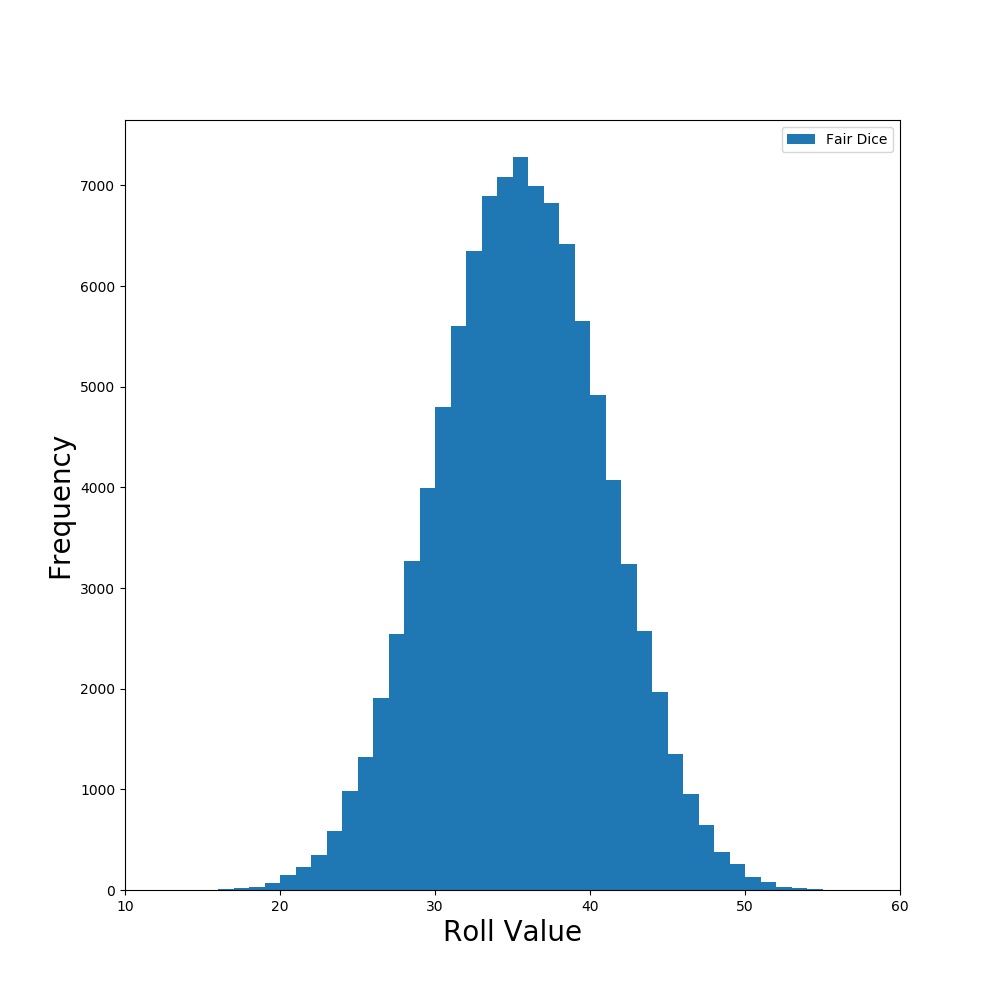
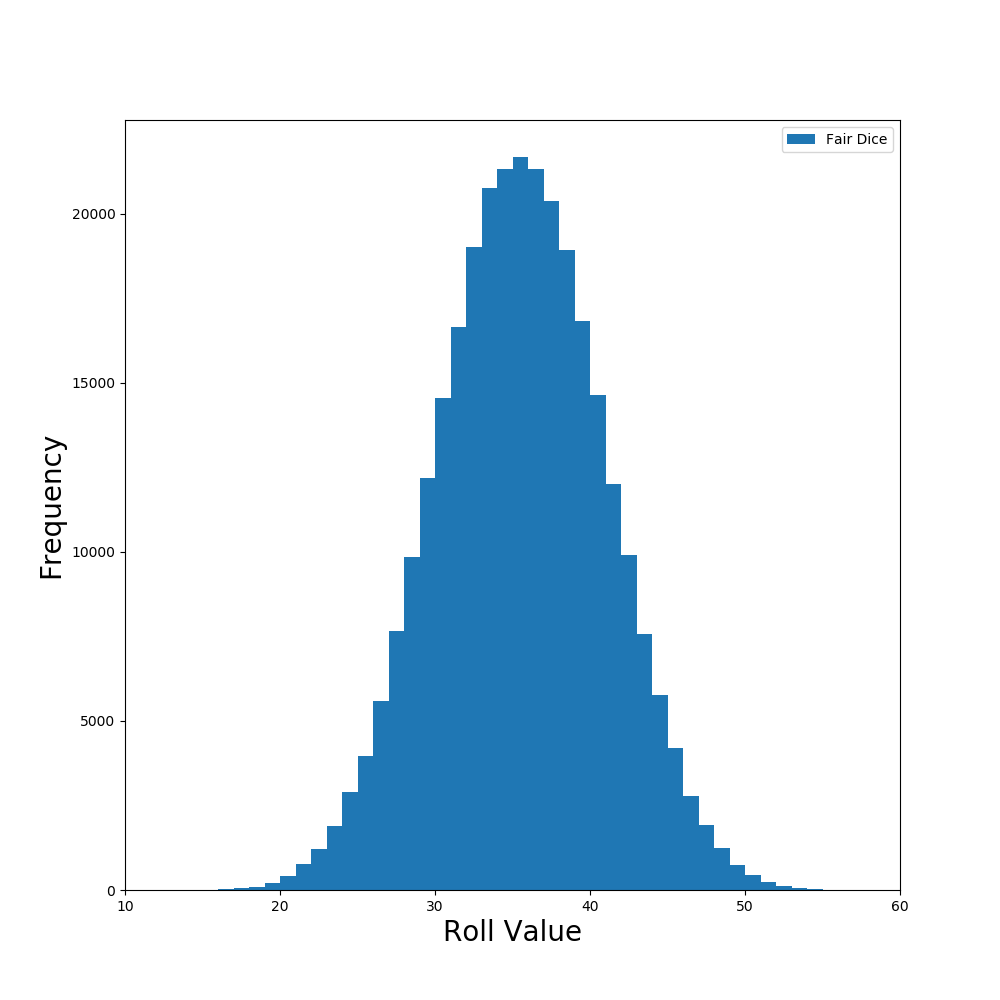
weights plots

diff --git a/dice_example/roll_multi_dice_mixture.py b/dice_example/roll_multi_dice_mixture.py
@@ -41,27 +41,35 @@ if __name__ == "__main__":
     N_samples = 100000
     k_sims = 2
     n_dice = 10
+
     fair_samples = [roll_dice(n_dice) for _ in range(N_samples)]
-    unfair_samples = [roll_loaded_dice(n_dice, 6, 10) for _ in range(N_samples)]
+    unfair_samples_high = [roll_loaded_dice(n_dice, 6, 10) for _ in range(N_samples)]
+    unfair_samples_low = [roll_loaded_dice(n_dice, 1, 10) for _ in range(N_samples)]
     unfair_test = [roll_loaded_dice(n_dice, 6, 3) for _ in range(N_samples)]
     unfair_test_sums = [ sum(x) for x in unfair_test]
     fair = {1:-1, 2:-1, 3:-1, 4:-1, 5:-1, 6:-1}
-    unfair = {6:-3.3026, 2:-1, 3:-1, 4:-1, 5: -1, 1:-1}
+    unfair_low = {1:-3.3026, 2:-1, 3:-1, 4:-1, 5: -1, 6:-1}
+    unfair_high = {6:-3.3026, 2:-1, 3:-1, 4:-1, 5: -1, 1:-1}
     unfair_test = {6:-2.0986, 2:-1, 3:-1, 4:-1, 5: -1, 1:-1}
-    #low_roller = {1:- 3.3026, 2:-3.3026, 3:-3.3026, 4: -1, 5: -1, 6: -1}
-    dists = [fair_samples, unfair_samples]
-    N_k = [N_samples, N_samples, 0]
-    energys = [fair, unfair, unfair_test]
+    low_roller = {1:- 3.3026, 2:-2.0986, 3:-1, 4: -1, 5: -2.0986, 6: -3.2026}
+    dists = [fair_samples, unfair_samples_high, unfair_samples_low]
+    N_k = [N_samples, N_samples, N_samples, 0, 0]
+    energys = [fair, unfair_low, unfair_high, unfair_test, low_roller]
     woot = mbarDiceMixtureDist(dists, N_k, energys)
     print(woot.mbar.computeExpectations(woot.mix_dist_sum))
     
+
+    # Generate Plots for mixture distribution made from a combination of 3
+    # different states
+
     plt.figure(figsize=[10,10])
-    plt.hist(woot.mix_dist_sum, alpha = 0.3, density=True, bins=range(1,61))
+    plt.hist(woot.mix_dist_sum, alpha = 0.3, density=True, bins=range(1,61), color='k')
     plt.hist(woot.mix_dist_sum, alpha =0.3, weights=woot.mbar.getWeights()[:,0], bins=range(1,61))
     plt.hist(woot.mix_dist_sum, alpha =0.3, weights=woot.mbar.getWeights()[:,1], bins=range(1,61))
+    plt.hist(woot.mix_dist_sum, alpha =0.3, weights=woot.mbar.getWeights()[:,2], bins=range(1,61))
     # plt.hist(woot.mix_dist_sum, alpha =0.3, weights=woot.mbar.getWeights()[:,2], bins=range(1,61))
     # plt.hist(unfair_test_sums, alpha = 0.3, bins=range(1,61),density=True)
-    plt.legend(['Mixture Distribution','Fair Dice', 'Loaded Dice'])
+    plt.legend(['Mixture Distribution','Fair Dice', 'High Roll Dice', 'Low Roll Dice'])
     plt.xlabel('Dice Value', fontsize=20)
     plt.ylabel('Density' ,fontsize=20)
     plt.xlim([n_dice, n_dice*6])
@@ -69,12 +77,24 @@ if __name__ == "__main__":
     plt.savefig('outputs/mixture_dist.png')
     plt.show()
 
+
+
+    # Defining a KDE to show the mixture distribution
+    # so as to not obscure the overlap of the estimated distributions
+
+    bw = 0.1
+    x_range = np.linspace(1*n_dice, 6*n_dice, 200)
+
+    density_mix = sps.gaussian_kde(woot.mix_dist_sum, bw_method=bw)
+
+    # These shows validation of intermediately loaded dice
+    # See how edges of samples are much more in agreement between
+    # the sampled and estimated distribution
+
     plt.figure(figsize=[10,10])
-    plt.hist(woot.mix_dist_sum, alpha = 0.3, density=True, bins=range(1,61))
-    # plt.hist(woot.mix_dist_sum, alpha =0.3, weights=woot.mbar.getWeights()[:,0], bins=range(1,61))
-    # plt.hist(woot.mix_dist_sum, alpha =0.3, weights=woot.mbar.getWeights()[:,1], bins=range(1,61))
+    plt.plot(x_range, density_mix(x_range),'k')
     plt.hist(unfair_test_sums, alpha = 0.3, bins=range(1,61),density=True)
-    plt.hist(woot.mix_dist_sum, alpha =0.3, weights=woot.mbar.getWeights()[:,2], bins=range(1,61))
+    plt.hist(woot.mix_dist_sum, alpha =0.3, weights=woot.mbar.getWeights()[:,3], bins=range(1,61))
     plt.legend(['Mixture Distribution', 'Loaded Dice','MBAR Weighted Dice'])
     plt.xlabel('Dice Value', fontsize=20)
     plt.ylabel('Density' ,fontsize=20)
@@ -83,5 +103,56 @@ if __name__ == "__main__":
     plt.savefig('outputs/mixture_dist_estimates.png')
     plt.show()
 
+
+    # Showing an estimated distribution for strange energy functions
+    # inverse quadratic?
+
+    plt.figure(figsize=[10,10])
+    plt.plot(x_range, density_mix(x_range),'k')
+    plt.hist(woot.mix_dist_sum, alpha =0.3, weights=woot.mbar.getWeights()[:,4], bins=range(1,61))
+    plt.legend(['Mixture Distribution', 'Loaded Dice','MBAR Weighted Dice'])
+    plt.xlabel('Dice Value', fontsize=20)
+    plt.ylabel('Density' ,fontsize=20)
+    plt.xlim([n_dice, n_dice*6])
+    plt.gca()
+    plt.savefig('outputs/mixture_dist_prediction.png')
+    plt.show()
         
-        
+    
+
+
+    # Scatter of weights
+      
+    fig, ax1 = plt.subplots(figsize=(10,15))
+
+    color = 'black'
+    ax1.plot(x_range, density_mix(x_range), color=color)
+    ax1.set_xlabel('Dice Value', fontsize=20)
+    ax1.set_ylabel('Mixture Distribution', fontsize=20, color=color)
+    ax1.tick_params(axis='y', labelcolor=color)
+    ax1.set_ylim([0, max(density_mix(x_range))+np.std(density_mix(x_range))])
+    ax2 = ax1.twinx()
+
+    color = 'C0'
+    ax2.scatter(woot.mix_dist_sum, woot.mbar.getWeights()[:,3])
+    ax2.set_ylabel('Weight Values', fontsize=20, color=color)
+    ax2.tick_params(axis='y', labelcolor=color)
+    ax2.set_ylim([min(woot.mbar.getWeights()[:,1]), max(woot.mbar.getWeights()[:,1]) + 10*np.std(woot.mbar.getWeights()[:,1])])
+    
+    ax1.autoscale(enable = True, axis='x', tight=True)
+
+    plt.gca()
+    plt.savefig('outputs/mixture_dist_weights.png')
+    plt.show()
+
+    # Plot low rollwer energy function as a series of step functions
+
+    x_die = np.linspace(1,6.99999,500)
+    x_eval = np.floor(x_die)
+    energy = np.array([low_roller[x] for x in x_eval])
+    plt.plot(x_die, energy)
+    plt.xlabel('Die Value')
+    plt.ylabel('Energy')
+    plt.gca()
+    plt.savefig('outputs/funky_energy.png')
+    plt.show()

diff --git a/dice_example/roll_multi_dice.py b/dice_example/roll_multi_dice.py
@@ -27,7 +27,7 @@ if __name__ == "__main__":
 
    # Samples for a fair dice
 
-   N_samples = 100000
+   N_samples = 300000
    k_sims = 2
    n_dice = 10
    bins = dict()
@@ -111,7 +111,7 @@ if __name__ == "__main__":
 
       # KDE of data
 
-      bw = 0.1
+      bw = 0.2
       density = sps.gaussian_kde(list(map(sum, samples)), bw_method=bw)
       density_MBAR = sps.gaussian_kde(list(map(sum, samples)), weights=results.getWeights()[ :, 1],bw_method=bw)
       density_loaded = sps.gaussian_kde(list(map(sum, samples_loaded)), bw_method=bw)
@@ -120,12 +120,12 @@ if __name__ == "__main__":
       x_range = np.linspace(1*n_dice, 6*n_dice, 200)
 
       plt.figure(figsize=[10,10])
-      plt.plot(x_range, density(x_range))
-      plt.plot(x_range, density_loaded(x_range))
-      plt.plot(x_range, density_MBAR(x_range))
+      plt.plot(x_range, density(x_range),'k')
+      # plt.plot(x_range, density_loaded(x_range))
+      # plt.plot(x_range, density_MBAR(x_range))
       #plt.hist(list(map(sum, samples)), bins=range(1,6*n_dice+1), alpha = 0.4, density=True)
-      #plt.hist(list(map(sum, samples_loaded)), bins=range(1,6*n_dice+1), alpha = 0.4, density=True, color='k')
-      #plt.hist(list(map(sum, samples)), weights=results.getWeights()[:,1], bins=range(1,6*n_dice+1), alpha=0.4, density=True)
+      plt.hist(list(map(sum, samples_loaded)), bins=range(1,6*n_dice+1), alpha = 0.4, density=True)
+      plt.hist(list(map(sum, samples)), weights=results.getWeights()[:,1], bins=range(1,6*n_dice+1), alpha=0.4, density=True)
       plt.legend(['Fair Dice', 'Loaded Dice', 'MBAR Weighted Dice'])
       plt.xlim([10,60])
       plt.xlabel('Dice Value', fontsize=20)
@@ -135,10 +135,24 @@ if __name__ == "__main__":
       plt.show()
 
       # Scatter of weights
-      plt.figure(figsize=[10,10])
-      plt.scatter(sums, results.getWeights()[:,1])
-      plt.xlabel('Dice Value', fontsize=20)
-      plt.ylabel('Weight Value', fontsize=20)
+      
+      fig, ax1 = plt.subplots(figsize=(10,15))
+
+      color = 'black'
+      ax1.plot(x_range, density(x_range), color=color)
+      ax1.set_xlabel('Dice Value', fontsize=20)
+      ax1.set_ylabel('Mixture Distribution', fontsize=20, color=color)
+      ax1.tick_params(axis='y', labelcolor=color)
+      ax1.set_ylim([0, max(density(x_range))+np.std(density(x_range))])
+      ax2 = ax1.twinx()
+
+      color = 'C0'
+      ax2.scatter(sums, results.getWeights()[:,1])
+      ax2.set_ylabel('Weight Values', fontsize=20, color=color)
+      ax2.tick_params(axis='y', labelcolor=color)
+      ax2.set_ylim([min(results.getWeights()[:,1]), max(results.getWeights()[:,1]) + 10*np.std(results.getWeights()[:,1])])
+      fig.tight_layout()
+      ax1.autoscale(enable = True, axis='x', tight=True)
       plt.gca()
       plt.savefig('outputs/10_weighted_dice_weights.png')
       plt.show()
